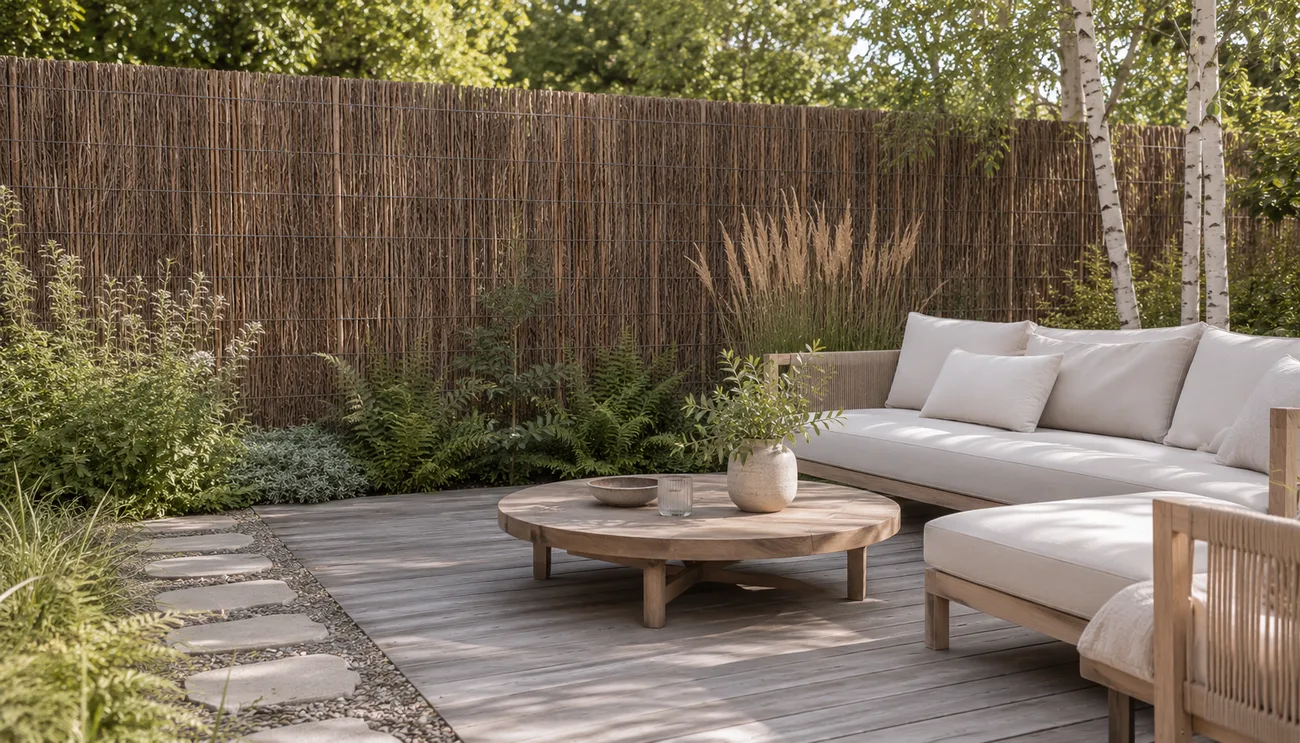
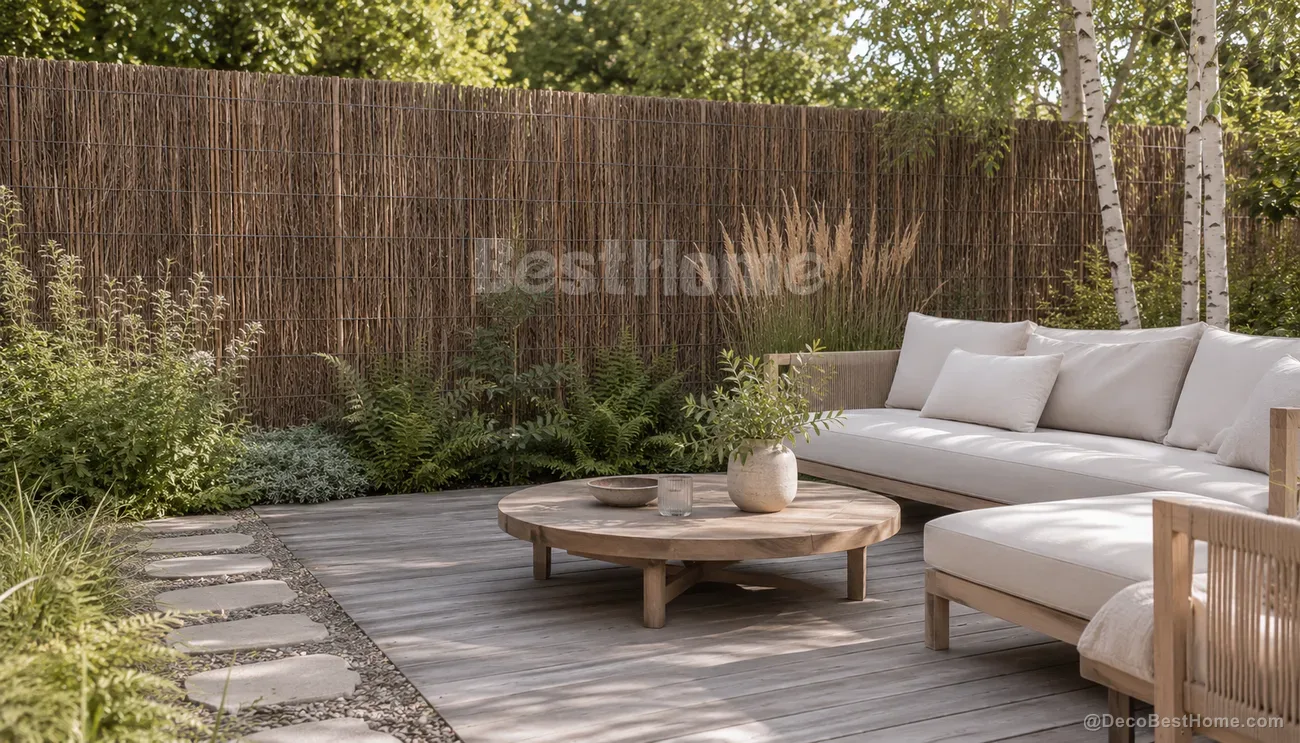
Batch: hide Tonkin, retag bestsellers, count-free copy, gallery updates
- Tonkin bamboo canes unlisted (page kept); mega footer 10 -> 9 (6 locales).
- Homepage hero replaced with the GPT-corrected closed-fence banner,
  watermarked (old + new originals archived in vault).
- Bestseller/popular retag per supplier: reed-fencing + other-natural-
  fencing -> bestseller; others unchanged.
- 'Twelve ranges' copy -> count-free 'full range' wording (home catalog
  title, products hero + meta, 6 locales); homepage ranges stat now
  dynamic (listedProducts.length).
- Quote modal + contact form product dropdowns -> listed products only.
- Inspiration: new Natural fencing filter (4 watermarked willow images,
  captions reuse existing translations); pill order All/Bamboo/Natural/
  Moso/Reed/Thatch; first fencing card -> new hero banner.

Changed region(s): [[0.3385, 0.3096, 0.6462, 0.4024], [0.8308, 0.9596, 0.9846, 0.9906]]

diff --git a/src/lib/gallery.ts b/src/lib/gallery.ts
@@ -1,4 +1,4 @@
-export type GalleryCategory = "fencing" | "moso" | "reed" | "thatch";
+export type GalleryCategory = "fencing" | "natural" | "moso" | "reed" | "thatch";
 
 export type GalleryItem = {
   id: string;
@@ -8,7 +8,7 @@ export type GalleryItem = {
 
 /** Inspiration gallery. Captions live in messages inspiration.items.{id}; category labels in inspiration.cats.{cat}. */
 export const gallery: GalleryItem[] = [
-  { id: "natural-bamboo-fence-1", image: "/images/natural-bamboo-fence-1.webp", cat: "fencing" },
+  { id: "natural-bamboo-fence-1", image: "/images/home-hero.webp", cat: "fencing" },
   { id: "moso-bamboo-for-sale", image: "/images/Moso-bamboo-for-sale.webp", cat: "moso" },
   { id: "thatch-roof-for-sale", image: "/images/thatch-roof-for-sale.webp", cat: "thatch" },
   { id: "moso-outdoor-constructions-2", image: "/images/moso-outdoor-constructions-2-1024x574.webp", cat: "moso" },
@@ -50,7 +50,12 @@ export const gallery: GalleryItem[] = [
   { id: "reed-banner-thick-unpeeled-5-8mm", image: "/images/reed/v/thick-unpeeled-5-8mm-hero.webp", cat: "reed" },
   { id: "reed-banner-cheap-unpeeled-3-6mm", image: "/images/reed/v/cheap-unpeeled-3-6mm-hero.webp", cat: "reed" },
   { id: "reed-banner-japanese-with-bamboo", image: "/images/reed/v/japanese-with-bamboo-hero.webp", cat: "reed" },
+  // Natural fencing (willow / brushwood / bark)
+  { id: "willow-natural-hero", image: "/images/willow-hero.webp", cat: "natural" },
+  { id: "willow-scene-brushwood", image: "/images/willow/scene-brushwood.webp", cat: "natural" },
+  { id: "willow-scene-bark", image: "/images/willow/scene-bark.webp", cat: "natural" },
+  { id: "willow-scene-square", image: "/images/willow/scene-square.webp", cat: "natural" },
 ];
 
 /** Filter chips order. Keys map to messages inspiration.cats.{key} (with "all" => inspiration.cats.all). */
-export const galleryFilters = ["all", "fencing", "moso", "reed", "thatch"] as const;
+export const galleryFilters = ["all", "fencing", "natural", "moso", "reed", "thatch"] as const;

diff --git a/src/lib/products.ts b/src/lib/products.ts
@@ -40,6 +40,7 @@ export const products: Product[] = [
     image: "/images/tonkin-hero.webp",
     icon: "🎋",
     tag: "bestseller",
+    unlisted: true,
     hasAbout: true,
     hasVariations: true,
     hasGrades: true,
@@ -213,7 +214,7 @@ export const products: Product[] = [
     slug: "reed-fencing",
     image: "/images/reed-hero.webp",
     icon: "▤",
-    tag: "popular",
+    tag: "bestseller",
     hasAbout: true,
     hasVariations: true,
     variationDir: "reed",
@@ -239,6 +240,7 @@ export const products: Product[] = [
     slug: "other-natural-fencing",
     image: "/images/willow-hero.webp",
     icon: "🍃",
+    tag: "bestseller",
     hasAbout: true,
     hasVariations: true,
     variationDir: "willow",

diff --git a/src/app/[locale]/page.tsx b/src/app/[locale]/page.tsx
@@ -116,7 +116,7 @@ export default async function HomePage({
         <div className="container" style={{ marginTop: "clamp(48px,6vw,84px)" }}>
           <Reveal className="stats">
             <div className="stat">
-              <div className="n">12</div>
+              <div className="n">{products.length}</div>
               <div className="l">{t("stats.ranges")}</div>
             </div>
             <div className="stat">

diff --git a/src/components/QuoteModal.tsx b/src/components/QuoteModal.tsx
@@ -2,7 +2,7 @@
 
 import { useEffect, useRef, useState } from "react";
 import { useTranslations } from "next-intl";
-import { products } from "@/lib/products";
+import { listedProducts as products } from "@/lib/products";
 import { company } from "@/lib/site";
 import { useQuoteModal } from "./QuoteModalProvider";
 

diff --git a/src/components/ContactForm.tsx b/src/components/ContactForm.tsx
@@ -2,7 +2,7 @@
 
 import { useState } from "react";
 import { useTranslations } from "next-intl";
-import { products } from "@/lib/products";
+import { listedProducts as products } from "@/lib/products";
 import { company } from "@/lib/site";
 
 export default function ContactForm() {
